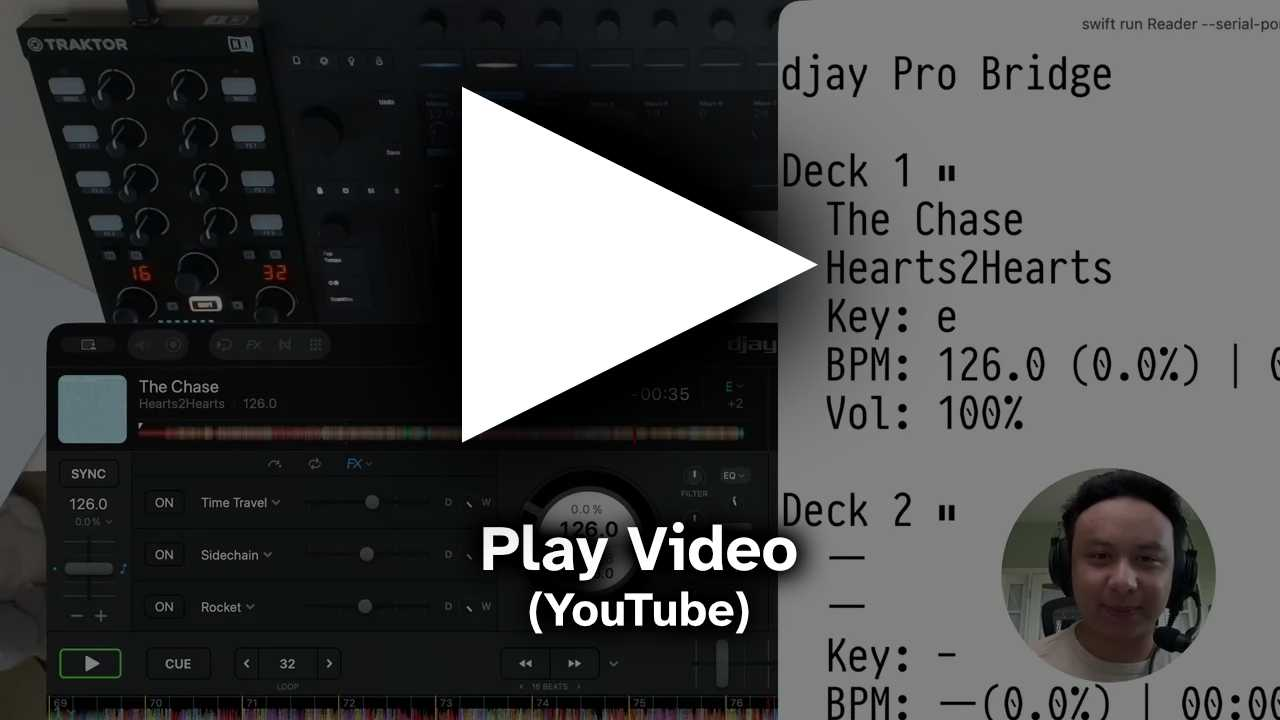
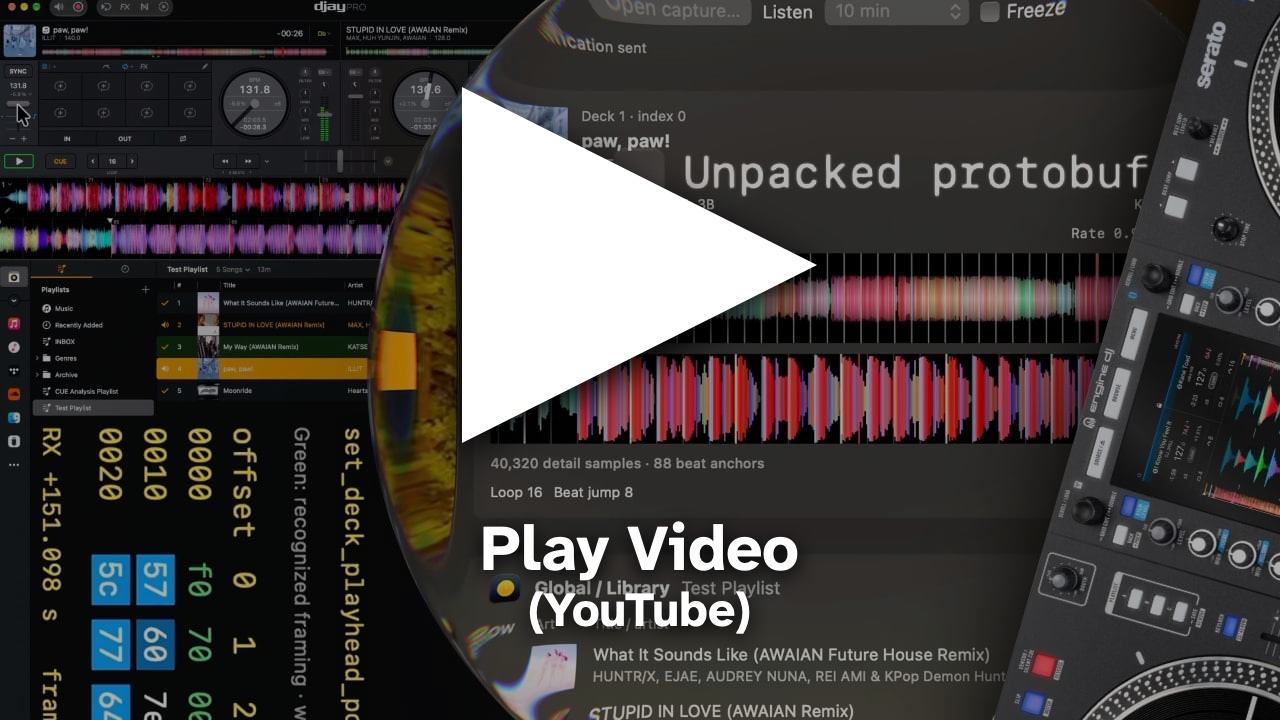
docs: feature SYSTEM ONE demo and video

diff --git a/README.md b/README.md
@@ -1,243 +1,85 @@
-# djay Pro Bridge
+# djay Pro Bridge — RANE SYSTEM ONE proof of concept
 
-A macOS tool that reads real-time deck state from [Algoriddim djay Pro](https://www.algoriddim.com/djay-pro-mac) using the macOS Accessibility API. This only supports djay Pro on Mac.
+A macOS debugger that receives djay Pro’s RANE SYSTEM ONE controller data through MIDI SysEx: track metadata, playhead updates, waveforms, beat grids, cues, loops, artwork and library rows. No controller hardware is required for the tested setup.
 
-[![Play Video (YouTube) — YouTube thumbnail with a large play button overlay. Left side shows a Traktor Kontrol hardware controller and an Ableton Push on a desk next to a screen running Algoriddim djay Pro, with a track loaded on deck 1 ("The Chase" by Hearts2Hearts, 126.0 BPM). Right side shows a terminal running `swift run Reader --serial-po…` displaying the djay Pro Bridge TUI: Deck 1 with track title, artist, Key: e, BPM: 126.0 (0.0%), Vol: 100%; Deck 2 empty. Bottom-right corner has a circular webcam inset of Kyle wearing headphones.](./yt-thumbnail.jpg)](https://www.youtube.com/watch?v=KYhucdsplHU)
+[![Play Video (YouTube) — djay Pro, the live waveform debugger, and a RANE SYSTEM ONE controller with a large play overlay.](./yt-thumbnail.jpg)](https://www.youtube.com/watch?v=3iI3Lo5fUzo)
 
-## Table of Contents
+Looking for the Accessibility API reader? See [djay Pro Bridge on the main branch](https://github.com/kyleawayan/djay-pro-bridge/tree/main).
 
-- [djay Pro Bridge](#djay-pro-bridge)
-  - [Table of Contents](#table-of-contents)
-  - [Why](#why)
-  - [Setup](#setup)
-    - [Dump](#dump)
-  - [Discovering More Accessibility Elements](#discovering-more-accessibility-elements)
-  - [Time Display](#time-display)
-    - [Time availability](#time-availability)
-  - [Available Data Per Deck](#available-data-per-deck)
-    - [Readable Values](#readable-values)
-    - [Action-Only Buttons (WIP)](#action-only-buttons-wip)
-    - [Other (not per-deck)](#other-not-per-deck)
-  - [Limitations](#limitations)
-  - [Experimental SYSTEM ONE packet debugger](#experimental-system-one-packet-debugger)
-  - [References](#references)
-  - [License](#license)
+**Experimental: tested only with djay Pro 5.6.9 on macOS. Future updates may require code changes; compatibility is not guaranteed.**
 
-## Why
+## Before running
 
-The production Reader extracts deck metadata through macOS Accessibility. This branch also includes an experimental SYSTEM ONE controller-protocol debugger that receives native metadata, library state and waveform data through MIDI SysEx; see the experimental section below.
+Requires macOS 13+, Swift 6.2+ through Xcode or its Command Line Tools, and an installed djay Pro app for full decoding. Swift Package Manager resolves the SwiftProtobuf dependency on the first build.
 
-The first idea was to read djay Pro's memory directly, but this was quickly scrapped — macOS's System Integrity Protection (SIP) blocks cross-process memory reading, and disabling it would compromise system security. This was not worth it for me.
-
-The next idea was polling djay Pro's song database and tracking MIDI input to reconstruct state externally, but this would get out of sync fast — especially when the DJ shifts keys or loads tracks in ways the external tracker can't anticipate.
-
-The breakthrough (with some help from Claude) was discovering that macOS has Accessibility APIs that let you read text and values directly from any app's UI. djay Pro, being a Mac-native app, exposes a rich accessibility tree with labeled elements for every deck — key, title, artist, and more. The macOS Accessibility API reads the live UI state directly, including key shifts and other changes, without changing runtime protections.
-
-## Setup
-
-1. **Swift 6.2+** must be installed through Xcode or its Command Line Tools. This branch resolves SwiftProtobuf 1.38.1 through Swift Package Manager, including when building the Reader.
-
-2. **Grant Accessibility permission** to whatever runs the tool (Terminal, iTerm2, VSCode, etc.).
-
-3. **Run djay Pro.**
-
-4. **Run the reader:**
-   ```bash
-   swift run Reader
-   ```
-
-The reader shows a live TUI display of deck state:
-
-```
-djay Pro Bridge
-
-Deck 1 ▶
-  What It Sounds Like (AWAIAN Future House Remix)
-  HUNTR/X, EJAE, AUDREY NUNA, REI AMI & KPop Demon Hunters Cast, AWAIAN
-  Key: e
-  BPM: 124.0 (0.0%) | 01:35.~4 / -05:05.~6
-
-Deck 2 ⏸
-  My Way (AWAIAN Remix)
-  KATSEYE, AWAIAN
-  Key: e flat
-  BPM: 128.0 (0.0%) | 00:00.~0 / -02:58.~0
-```
-
-Options:
-
-```bash
-swift run Reader --interval 100  # render interval in ms (default 33, ~30fps)
-swift run Reader --log           # scrolling log output instead of TUI
-```
-
-The reader uses two threads: a background thread polls djay Pro's accessibility tree continuously (estimated ~8fps, limited by the cost of the accessibility tree walk), while the main thread renders at the `--interval` rate. The higher render rate allows smooth interpolated deck timestamps, which is important for timecode output that can be added later.
-
-### Dump
-
-The dump tool outputs all discovered accessibility elements as JSON:
-
-```bash
-swift run Dump                # prints JSON to stdout
-swift run Dump > elements.json  # save to file
-```
-
-## Discovering More Accessibility Elements
-
-> **Note:** This section requires the full Xcode app installed (not just Command Line Tools).
-
-djay Pro exposes a rich accessibility tree — far more than just key and title. To explore what's available:
-
-1. Open **Accessibility Inspector** — in Xcode, go to **Xcode → Open Developer Tool → Accessibility Inspector**.
-
-2. In Accessibility Inspector, select your Mac as the target device from the dropdown in the top left.
-
-3. Click the **crosshair/target button** (or press `⌥Space`) to enable the inspection pointer.
-
-4. Hover over any element in djay Pro's UI. The inspector will show:
-   - **Label** (`AXDescription`) — the element's accessible name, e.g., `"Key, Deck 1"`
-   - **Value** — the current displayed value, e.g., `"c minor"`
-   - **Role** — the element type (`AXButton`, `AXStaticText`, etc.)
-   - **Parent/Children** — the full hierarchy
-
-5. Use the **hierarchy view** (the tree icon in the toolbar) to browse the full element tree without hovering. The structure is:
-   ```
-   djay Pro (ARApplication)
-     └─ djay Pro (standard window) [NSWindow]
-        └─ Decks (group) [ARMacMetalView]
-           ├─ Title, Deck 1 (text)
-           ├─ Artist, Deck 1 (text)
-           ├─ Key, Deck 1 (button)
-           ├─ Remaining time, Deck 1 (button)
-           ├─ 124.0, Deck 1 (button)             ← BPM (value-as-label)
-           ├─ 0.0%, Deck 1 (button)              ← BPM % (value-as-label)
-           ├─ Play / Pause, Deck 1 (button)
-           ├─ Waveform, Deck 1 (unknown)
-           ├─ ...
-           └─ [Deck 2 elements follow the same pattern]
-   ```
-
-Element labels follow two patterns:
-
-1. **Standard**: `"PropertyName, Deck N"` — the label names the property, the value holds the data. E.g. `"Key, Deck 1"` has value `"e"`.
-2. **Value-as-label**: The label itself IS the data. E.g. `"124.0, Deck 1"` is the BPM number, `"0.0%, Deck 1"` is the BPM percentage. The element's value field holds something else (slider position).
-
-## Time Display
-
-The reader shows elapsed and remaining time with sub-second precision (one decimal place). Since the Accessibility API only provides whole-second `MM:SS` values, the fractional second is **interpolated** between polls using wall-clock time. Interpolated values are shown with a `~` prefix (e.g. `01:35.~4`) to indicate they are approximate.
-
-The interpolator accounts for tempo changes — if BPM% is `+3.2%`, time advances 3.2% faster than wall clock. On every poll, the interpolator **snaps to reality**: if the new AX time differs from the prediction by more than ~1 second (e.g. looping, or track jumps), it resets instantly rather than trying to smooth the difference.
-
-### Time availability
-
-Which time values are visible depends on djay Pro's current view:
-
-| View                                                    | Elapsed | Remaining |
-| ------------------------------------------------------- | ------- | --------- |
-| Jog view enabled                                        | Yes     | Yes       |
-| Timer (next to key value in app) showing remaining time | No      | Yes       |
-| Timer (next to key value in app) showing elapsed time   | Yes     | No        |
-
-Note: the timer toggle (next to the key value in the app) to show remaining or elapsed time is per deck — it is not global.
-
-When a time value isn't available, the reader shows `--:--.~-` as a placeholder with a hint to change the view.
-
-## Available Data Per Deck
-
-Everything below is read per deck (Deck 1, 2, etc.) from the accessibility tree.
-
-> **Note:** These may highly vary or depend on the specific view mode that is showing in djay Pro. This is due to the accessibility tree changing based on the view mode. These are the initial ones I found with my current configuration.
-
-### Readable Values
-
-| Element               | Role                  | Example Value                                     | Notes                                                                                                                                                                         |
-| --------------------- | --------------------- | ------------------------------------------------- | ----------------------------------------------------------------------------------------------------------------------------------------------------------------------------- |
-| Title                 | AXStaticText          | `What It Sounds Like (AWAIAN Future House Remix)` |                                                                                                                                                                               |
-| Artist                | AXStaticText          | `HUNTR/X`                                         |                                                                                                                                                                               |
-| Key                   | AXButton              | `f minor`                                         |                                                                                                                                                                               |
-| BPM                   | AXButton/AXStaticText | `126.0`                                           | Value-as-label pattern                                                                                                                                                        |
-| BPM %                 | AXButton/AXStaticText | `0.0%`, `+7.3%`                                   | Value-as-label pattern                                                                                                                                                        |
-| Elapsed time          | AXButton/AXStaticText | `01:35`                                           | Availability depends on view (confirmed, see [Time availability section](#time-availability))                                                                                 |
-| Remaining time        | AXButton/AXStaticText | `-05:05`                                          | Availability depends on view (confirmed, see [Time availability section](#time-availability))                                                                                 |
-| Play / Pause          | AXButton              | `Active` / nil                                    | `Active` = playing                                                                                                                                                            |
-| Key Lock on-off       | AXButton              | `Active` / nil                                    |                                                                                                                                                                               |
-| Quantize              | AXButton              | `Active` / nil                                    |                                                                                                                                                                               |
-| Loop                  | AXButton              | `4 Beats`                                         | Current loop size                                                                                                                                                             |
-| DVS                   | AXButton              | `INT`                                             |                                                                                                                                                                               |
-| Skip Forward/Backward | AXButton              | `16 Beats`                                        | Current skip size (not confirmed, but this may depend on whether the beat jump buttons are shown — the buttons configurable next to the crossfader in non-hardware mode view) |
-| Tempo                 | AXSlider              | `0%`                                              | Slider position, not BPM                                                                                                                                                      |
-| Filter                | AXSlider              | `50%`                                             |                                                                                                                                                                               |
-| High / Mid / Low EQ   | AXSlider              | `50%`                                             |                                                                                                                                                                               |
-| Gain                  | AXSlider              | `42%`                                             |                                                                                                                                                                               |
-| Line volume           | AXSlider              | `100%`                                            |                                                                                                                                                                               |
-| FX Parameter          | AXSlider              | `80%`                                             | Per FX slot (1-3)                                                                                                                                                             |
-| FX Wet/dry            | AXSlider              | `100%`                                            | Per FX slot (1-3)                                                                                                                                                             |
-| FX Parameter name     | AXStaticText          | `0 BEAT`                                          | Per FX slot (1-3)                                                                                                                                                             |
-
-### Action-Only Buttons (WIP)
-
-These AXButton elements had no value in our test dumps, but some may expose state (e.g. `Active`) when engaged — needs further testing. For triggering actions, MIDI mapping is recommended.
-
-Sync, CUE, Set start point, Jump to start point, Loop Half, Loop Double, Pitch Bend +/-, Key shift, Mute until cue, Precue, EQ Type, Edit grid, Waveform options, Neural Mix Solo (all channels), Instant FX, Instrumental, Percussive, Acapella, Tonal, FX Enable/Sidechain/Riser/Time Travel, Slice options, Slice repeat, Pitch Cue, Cue Points, Cuepoint Range, Looping, Shows quantize options.
-
-### Other (not per-deck)
-
-| Element        | Role     | Example Value |
-| -------------- | -------- | ------------- |
-| Crossfader     | AXSlider | `50%`         |
-| External Mixer | AXButton | —             |
-
-## Limitations
-
-- **Play state detection delay (~700ms):** When a deck is paused, djay Pro's play/pause button flashes in the accessibility tree — rapidly alternating between "Active" and nil. To avoid false play detection, the reader debounces the paused-to-playing transition, requiring the button to report "Active" consistently for ~700ms before the deck is considered playing. Playing-to-paused detection is immediate.
-- **View-dependent data availability:** The accessibility tree changes based on djay Pro's current view mode. Some elements (elapsed/remaining time, beat jump buttons, etc.) may only be available in certain views.
-
-## References
-
-The main deck algorithm is adapted from Pioneer DJ's sync master behavior, informed by:
-
-- [AlphaTheta Help Center: "I don't understand the conditions by which the sync master switches."](https://support.alphatheta.com/en-US/articles/4406561707801)
-- [Deep Symmetry DJ Link Ecosystem Analysis: Sync and Tempo Master](https://djl-analysis.deepsymmetry.org/djl-analysis/sync.html)
-
-## License
-
-MIT
-
-
-## Experimental SYSTEM ONE packet debugger
-
-**Proof of concept, tested only with djay Pro 5.6.9 on macOS. Future djay updates may require changes; compatibility is not guaranteed.** This is a separate debugger, not the production Accessibility reader.
-
-**Before building:** requires macOS 13+, Swift 6.2+, and an installed djay Pro app for full decoding. At startup, the debugger reads the installed djay executable on disk to locate its embedded protobuf schema. It does not modify djay. No schema export or Swift type generation is needed to build or run the debugger.
+**The debugger reads the installed djay executable on your Mac** to locate its embedded protobuf schema. It does not modify djay. No schema export or Swift type generation is needed to build or run the debugger.
 
 **Connecting can unload decks and change audio routing.** Connect before loading tracks. Disconnecting does not restore the previous djay state.
 
-1. Start djay Pro and run the debugger from this checkout:
+## Run the debugger
+
+1. Check out this branch:
+   ```sh
+   git switch poc/system-one-telemetry
+   ```
+2. Start djay Pro and run:
    ```sh
    swift run SystemOneInspector
    ```
-2. Press **Connect**, then load and play tracks in djay. All decks and Global/Library appear on one screen; expand the packet view for raw bytes and decoded fields.
+3. Press **Connect**, then load and play tracks in djay.
 
-### How it works
+All decks and Global/Library appear on one screen. Expand **Raw packets and every decoded field** to inspect message families, bytes and values. **Freeze** pauses display updates while recording continues; **Open capture…** loads a saved capture offline.
 
-The debugger creates a temporary pair of SYSTEM ONE MIDI endpoints and sends one peer-identification keepalive after djay identifies itself. It reassembles incoming MIDI SysEx messages, unpacks their protobuf payloads, and uses the locally loaded schema to label fields. Captured data includes track metadata, playhead updates, artwork, library rows, waveform images and samples, beat grids, cues and loops. It sends no playback or browsing commands. No controller hardware is required for this tested Mac setup.
+Waveform gaps mean samples have not arrived for that region. Library rows reflect received data, not a complete library export. Initial image-cache entries may be generic icons rather than track artwork.
 
-Schema discovery searches for a recognizable descriptor rather than a fixed byte offset. Updates that change the descriptor or protocol may require extractor, decoder or UI changes. If schema loading fails, only limited numeric decoding remains available.
+## How it works
 
-### Optional protobuf export
+The debugger creates a temporary pair of SYSTEM ONE MIDI endpoints. After djay identifies itself, it sends one peer-identification keepalive to start the metadata stream. Incoming SysEx fragments are reassembled and unpacked into protobuf messages; the locally loaded schema supplies field names and types.
 
-To export the protobuf schema from your installed djay app:
+Overview waveforms are images. Detailed waveforms are RGB/height display samples, not audio. The UI updates on incoming data, with bursts combined into one redraw. The debugger sends no playback or browsing commands.
+
+Schema discovery searches for a recognizable descriptor rather than a fixed byte offset. Changes to the descriptor, connection exchange or field meanings may require code updates. If schema loading fails, limited numeric decoding remains available. Mobile compatibility is unverified.
+
+## Optional protobuf export
+
+To export the schema from your installed djay app:
 
 ```sh
 python3 scripts/research/extract_system_one_proto.py '/Applications/djay Pro.app'
 ```
 
-The command prints a new temporary output directory containing the descriptor, descriptor set, reconstructed `.proto` and extraction metadata. Add `--swift` to generate Swift types with already-installed `protoc` and `protoc-gen-swift`. These exports are optional; the debugger loads its schema directly from djay.
+The command prints a new temporary directory containing the descriptor, descriptor set, reconstructed `.proto` and extraction metadata. Add `--swift` to generate Swift types with already-installed `protoc` and `protoc-gen-swift`. This step is optional; the debugger reads its schema directly from djay.
 
-See [the debugger guide](docs/research/system-one-inspector.md), [CLI capture and image export commands](docs/research/system-one-cli.md), and [protocol findings](docs/research/system-one-protocol.md). Captures can contain library listings and artwork; keep them local.
+## CLI capture and image export
+
+Capture an initialized stream while djay is running:
+
+```sh
+swift run SystemOneProbe --identity system-one-display \
+  --accept-deck-changes --startup-keepalive --seconds 120
+```
+
+The probe prints its capture directory. After capture, export received images and waveform contact sheets:
+
+```sh
+swift run SystemOneCapture /path/to/capture/traffic.ndjson
+```
+
+Captures can contain library listings and artwork; keep them local. See [CLI options](docs/research/system-one-cli.md), [the debugger guide](docs/research/system-one-inspector.md), and [the protocol overview](docs/research/system-one-protocol.md).
+
+## Tests
+
+```sh
+swift test --filter 'SystemOne.*Tests'
+python3 -m unittest discover -s scripts/research -p 'test_*.py'
+```
 
 ## Credits
 
-The packet debugger's hex-grid layout and fading byte-change highlights are inspired by [Dysentery by Deep Symmetry](https://github.com/Deep-Symmetry/dysentery), particularly its [Packet Window](https://github.com/Deep-Symmetry/dysentery/blob/main/doc/assets/PacketWindow.png). No Dysentery source code or screenshot assets are included.
+The packet debugger’s hex grid and fading byte-change highlights are inspired by [Dysentery by Deep Symmetry](https://github.com/Deep-Symmetry/dysentery), particularly its [Packet Window](https://github.com/Deep-Symmetry/dysentery/blob/main/doc/assets/PacketWindow.png). No Dysentery source code or screenshot assets are included.
 
-Protocol descriptor support uses [SwiftProtobuf](https://github.com/apple/swift-protobuf). Protocol exports are generated with [Protocol Buffers](https://github.com/protocolbuffers/protobuf) and SwiftProtobuf's Swift generator.
+Descriptor parsing uses [SwiftProtobuf](https://github.com/apple/swift-protobuf). Optional Swift type generation uses [Protocol Buffers](https://github.com/protocolbuffers/protobuf) and SwiftProtobuf’s Swift generator.
+
+## License
+
+MIT
